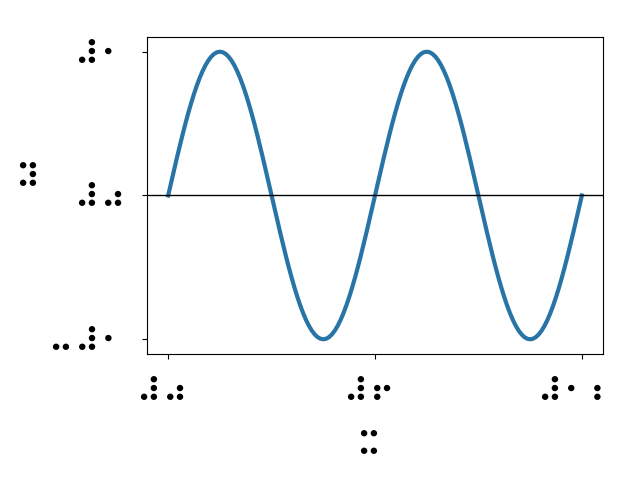
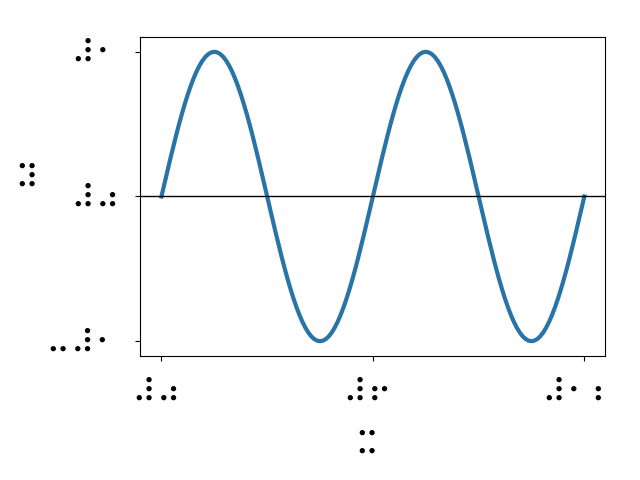
new images

diff --git a/main.py b/main.py
@@ -5,7 +5,7 @@ import pyvista as pv
 import os
 
 # Insertar imagen
-img_path = r'C:\Users\franc\OneDrive\Documentos\GitHub\imgtoSTL\imgs\1-solo-box.png'
+img_path = r'C:\Users\franc\OneDrive\Documentos\GitHub\imgtoSTL\imgs\triangularplot-braille.png'
 
 # Convertir a escala se grises
 image = Image.open(img_path).convert("L")
@@ -108,6 +108,6 @@ p.show()
 # # os.rename(ruta_archivo_stl, ruta_destino_stl)
 # # print("se guardo la imagen como: ", stl_file, 'en la carpeta', carpeta_destino)
 polydata = mesh.extract_geometry()
-stl_file = '1_solo_box.stl'
+stl_file = 'triangularplot-braille.stl'
 polydata.save(stl_file)
 print("se guardo la imagen como: ", stl_file)
